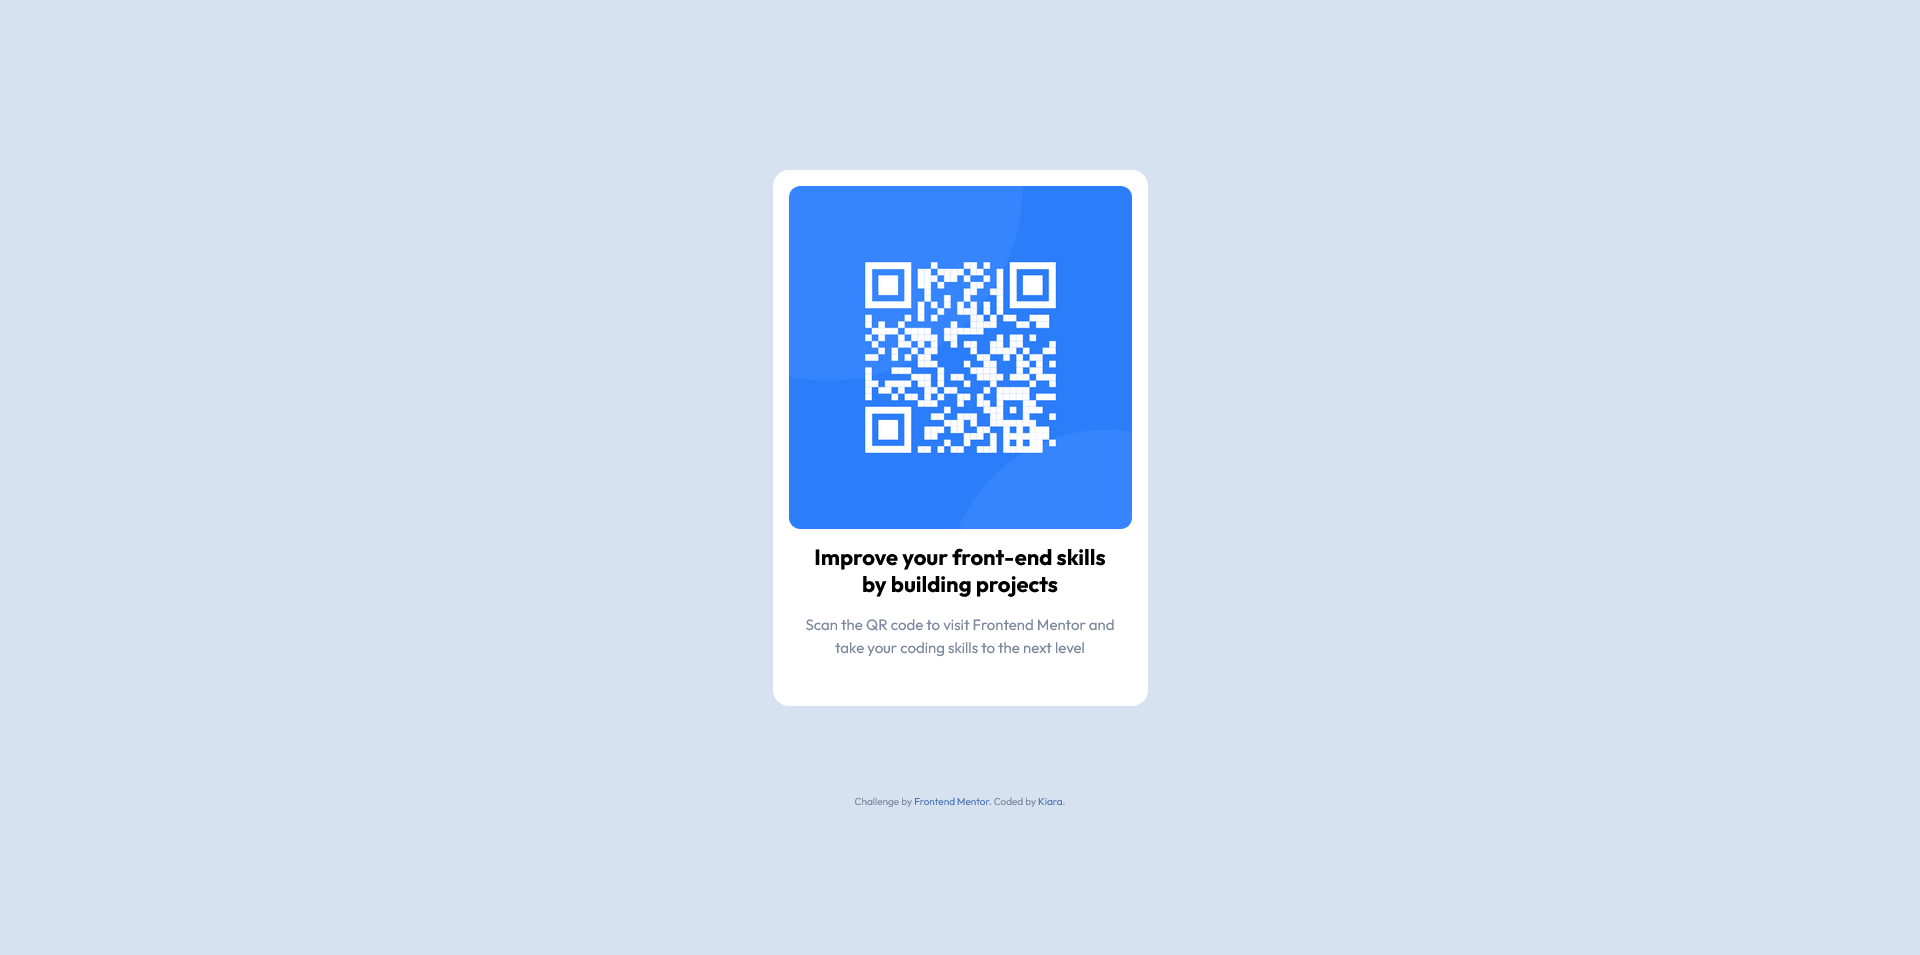
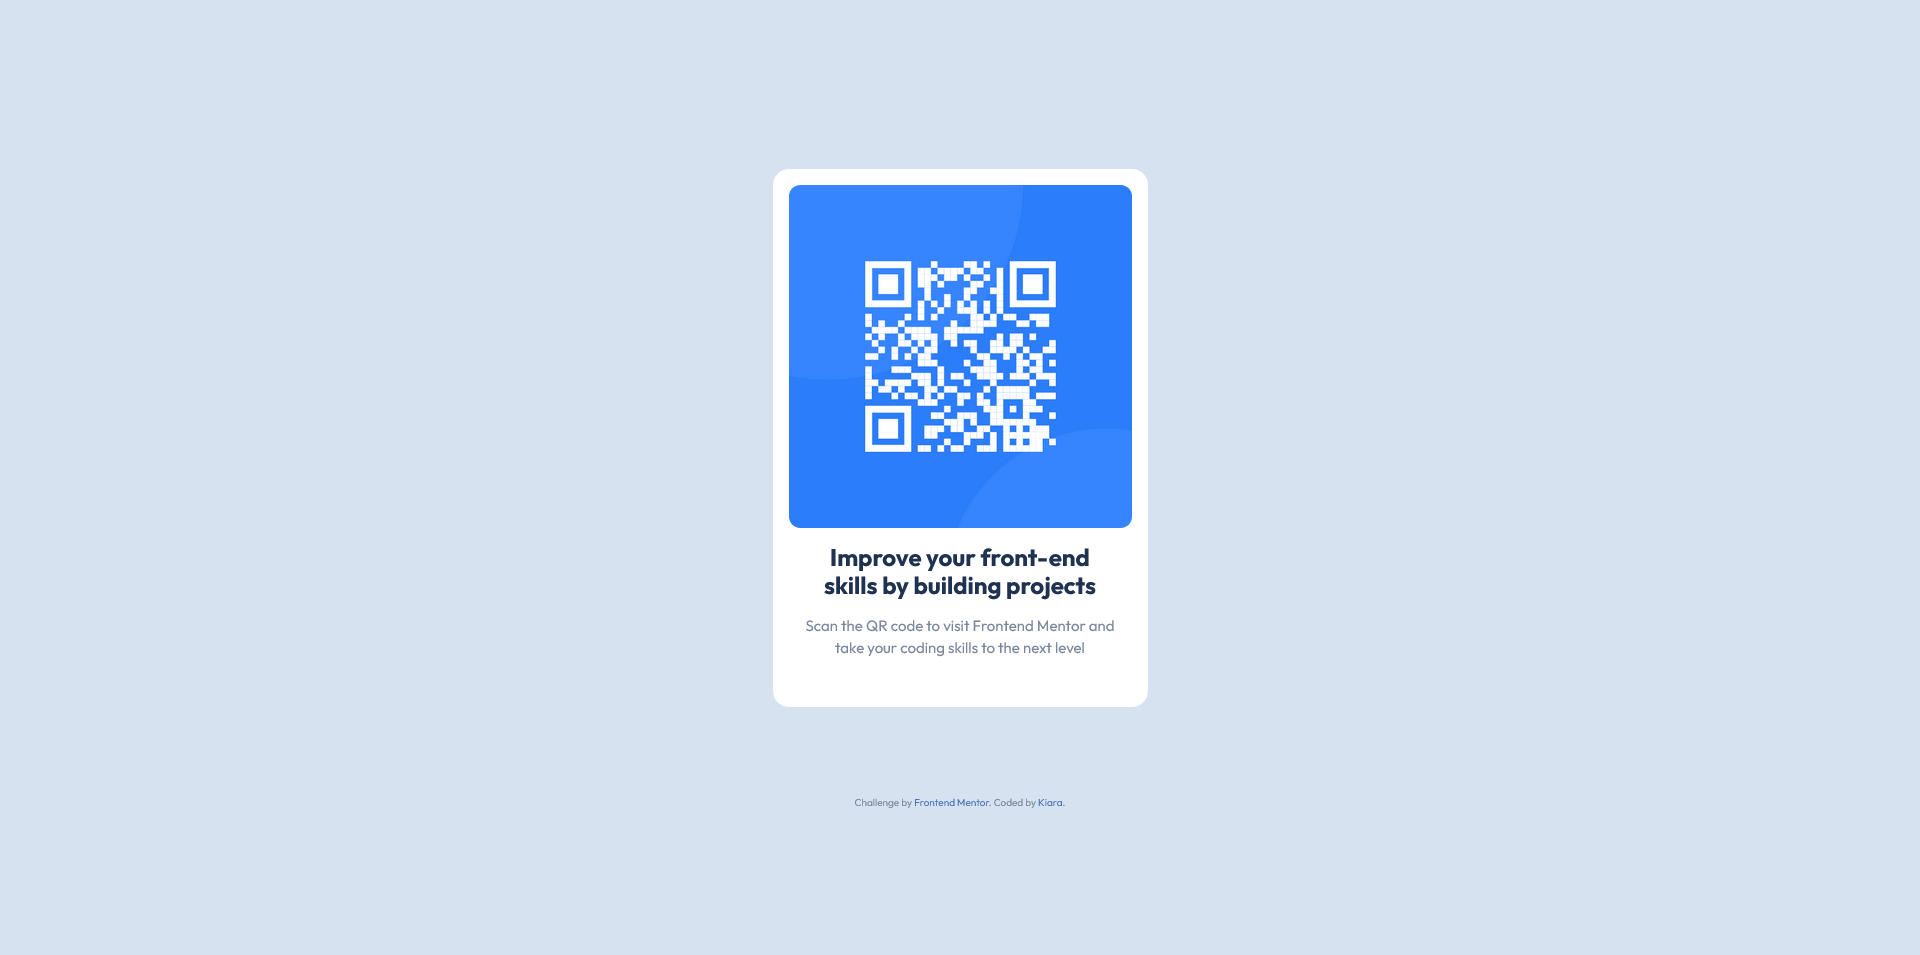
Add files via upload

Changed region(s): [[0.4375, 0.2733, 0.5625, 0.4859], [0.4062, 0.577, 0.5938, 0.6681], [0.4688, 0.8199, 0.5312, 0.8503]]

diff --git a/index.html b/index.html
@@ -19,33 +19,31 @@
     />
 
     <title>Frontend Mentor | QR code component</title>
-
-    <!-- Feel free to remove these styles or customise in your own stylesheet 👍 -->
-    <!-- <style>
-    .attribution { font-size: 11px; text-align: center; }
-    .attribution a { color: hsl(228, 45%, 44%); }
-  </style> -->
   </head>
   <body>
-    <article class="qr">
+    <main class="qr">
       <div class="qr-img-area">
-        <img class="qr-img" src="images/image-qr-code.png" alt="QR code" />
+        <img
+          class="qr-img"
+          src="images/image-qr-code.png"
+          alt="QR code that takes the user to the Frontend Mentor main website"
+        />
       </div>
       <div class="qr-text">
-        <h1 class="qr-title">
+        <h2 class="qr-title">
           Improve your front-end skills by building projects
-        </h1>
+        </h2>
         <p class="qr-description">
           Scan the QR code to visit Frontend Mentor and take your coding skills
           to the next level
         </p>
       </div>
-    </article>
-    <div class="attribution">
+    </main>
+    <footer class="attribution">
       Challenge by
       <a href="https://www.frontendmentor.io?ref=challenge" target="_blank"
         >Frontend Mentor</a
       >. Coded by <a href="https://github.com/AndreeaKiara">Kiara</a>.
-    </div>
+    </footer>
   </body>
 </html>

diff --git a/style.css b/style.css
@@ -85,9 +85,11 @@ h6 {
 body {
   background-color: var(--clr-neutral-200);
   font-family: var(--ff-base);
+  color: var(--clr-neutral-400);
 
   display: grid;
   place-content: center;
+  min-height: 100vh;
 }
 
 .qr {
@@ -98,36 +100,32 @@ body {
   max-width: 375px;
 }
 
-.qr-img-area {
-  justify-content: center;
+.qr-img {
+  border-radius: 0.7rem;
+  max-width: 100%;
 }
 
-.qr-img {
-  display: flex;
-  border-radius: 0.7rem;
-  justify-content: center;
+.qr-text {
+  padding: 1rem;
 }
 
 .qr-title {
-  margin: 0.9rem;
-  font-size: 22px;
   color: var(--clr-neutral-700);
   line-height: 1.7rem;
   text-align: center;
+  margin-bottom: 1rem;
+  font-weight: var(--fw-bold);
 }
 
 .qr-description {
   font-size: 15px;
   text-align: center;
-  margin: 1rem;
-  color: var(--clr-neutral-400);
 }
 
 .attribution {
   text-align: center;
   margin-top: 4rem;
   font-size: 10px;
-  color: var(--clr-neutral-400);
 }
 
 .attribution a {
